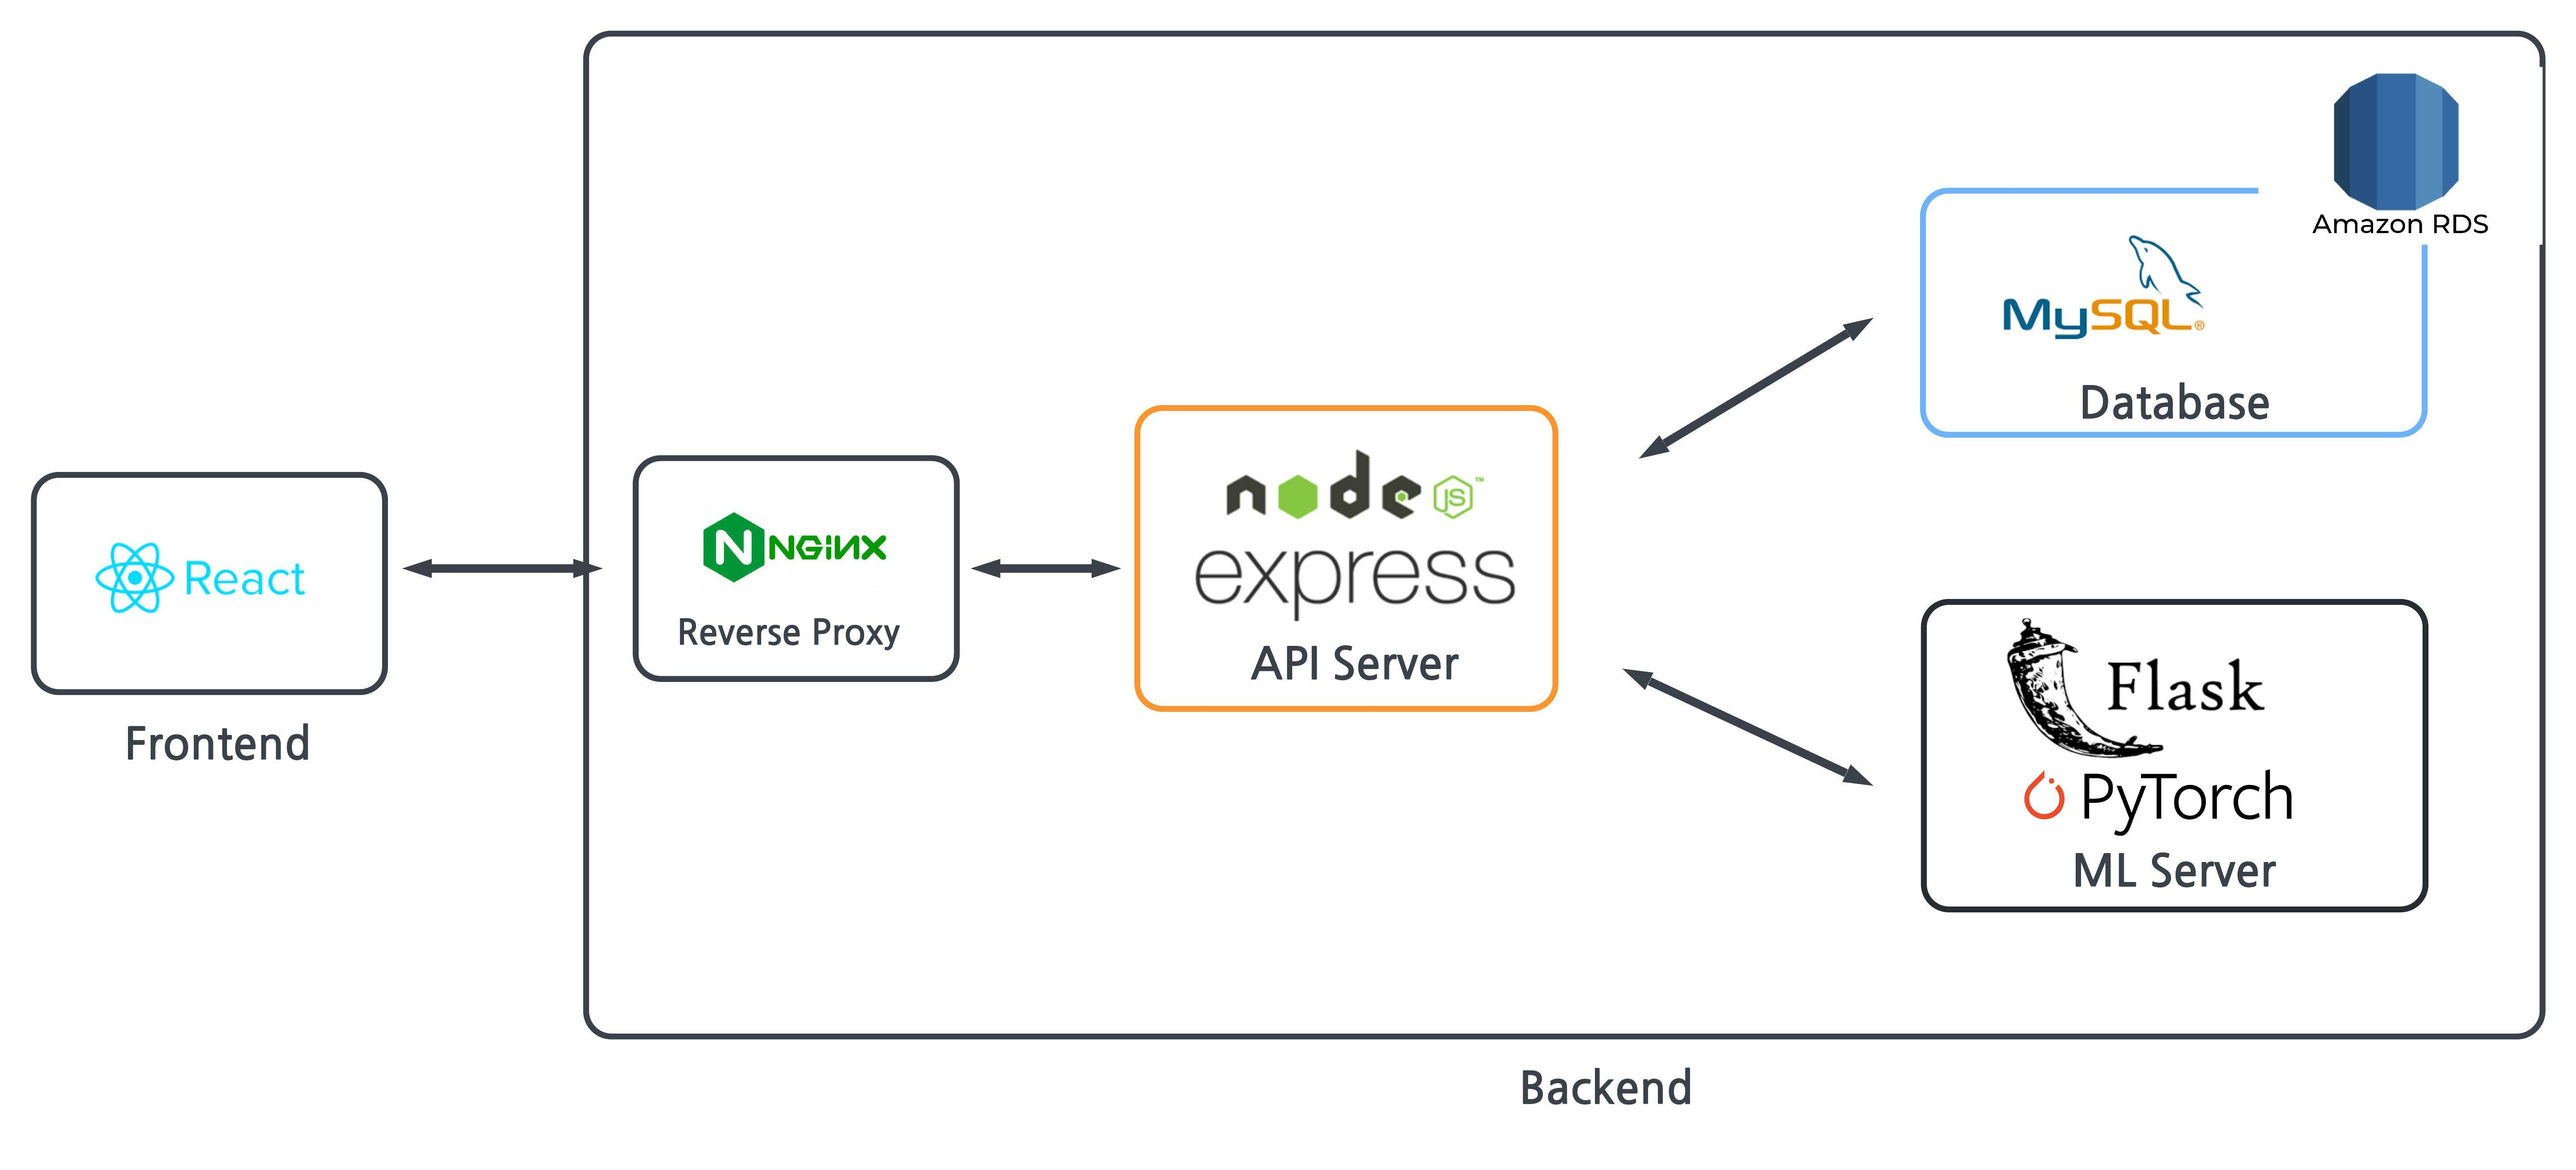
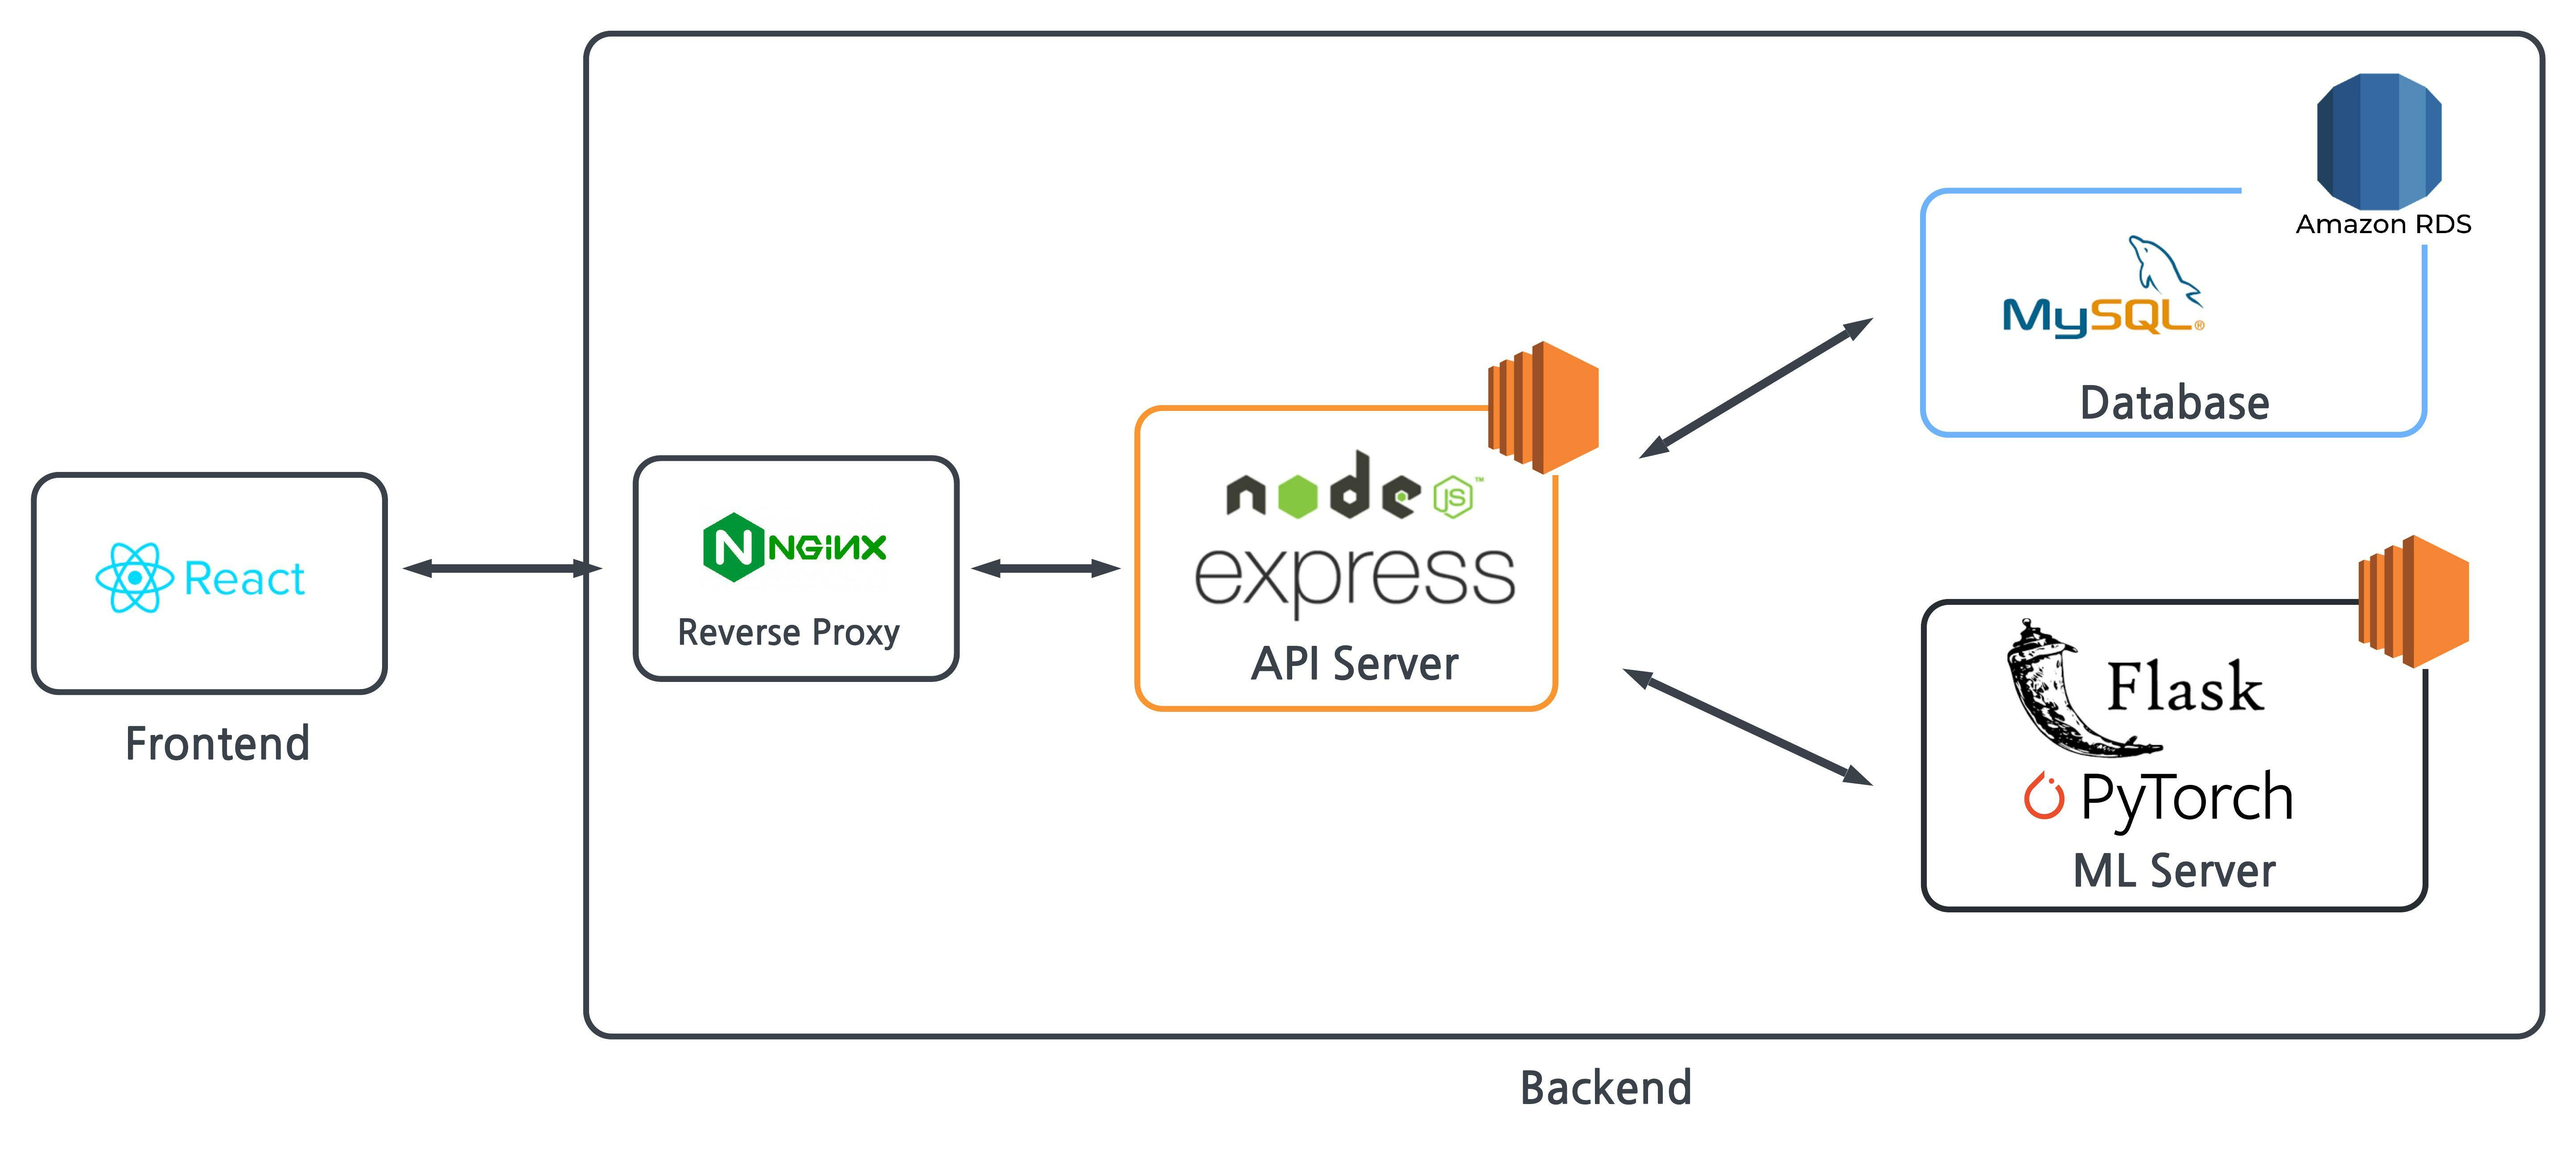
readme 이미지 링크 추가

Changed region(s): [[0.8724, 0.0625, 0.9659, 0.2187], [0.5608, 0.2811, 0.6232, 0.4061], [0.9036, 0.4686, 0.9659, 0.5623]]

diff --git a/readme.md b/readme.md
@@ -4,6 +4,8 @@
 <br/>
 
 ## Introduction
+추후에 작성 예정.
+
 <br/>
 
 
@@ -27,11 +29,16 @@
 <br/>
 
 ## System Architecture
-
+대략적인 Architecture 구조도입니다.
+<img src="./.github/images/architecture diagram.jpeg">
+1. Nginx가 메인 서버의 앞단에서 리버스 프록시로 작동
+2. Node.js Express를 사용하여 메인 API서버 구현
+3. 데이터베이스로 MySQL 사용. 배포용 데이터베이스와 테스트용 데이터베이스를 분리 운영
+4. Colab을 통한 모델 학습, Flask를 사용해 API형태로 배포
 <br/>
 
 ## CI/CD
-
+<img src="./.github/images/cicd diagram.jpeg">
 <br/>
 
 ##  API 문서
